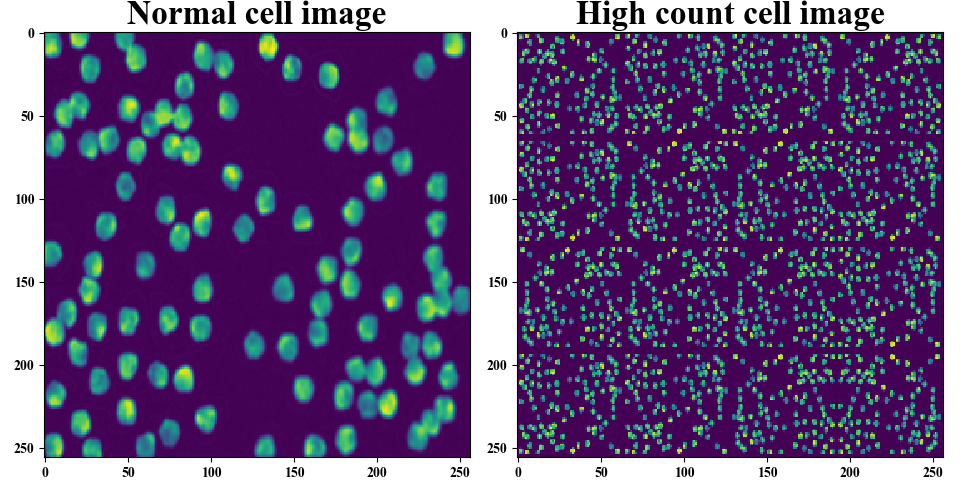
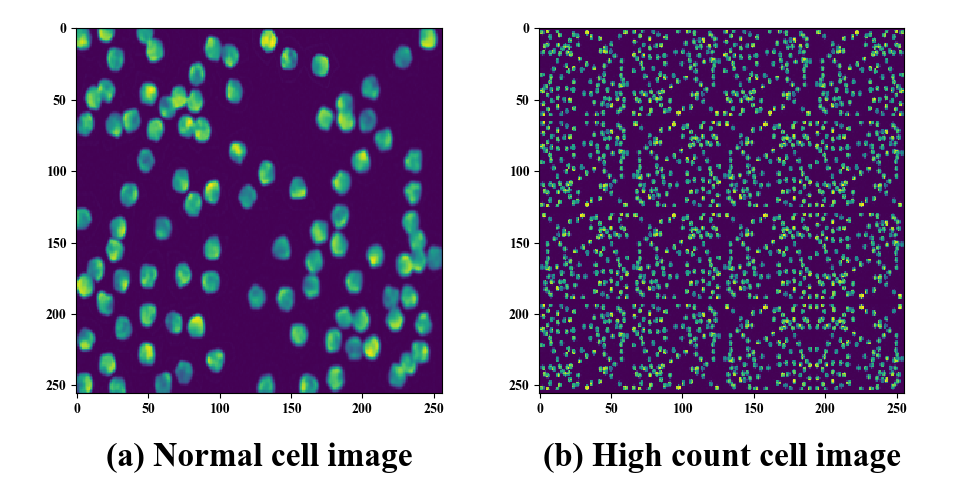
researh paper figs title alteration

diff --git a/research-paper-utils/nalu-comparison-util.py b/research-paper-utils/nalu-comparison-util.py
@@ -34,7 +34,7 @@ Z = tanh(X)*sigmoid(Y)
 ax.set_xlabel('tanh(x)', fontsize=14)
 ax.set_ylabel('sigmoid(y)', fontsize=14)
 ax.set_zlabel('W', fontsize=16)
-ax.set_title('NAC surface plot', fontsize=18)
+ax.set_title('(a) NAC surface plot', fontsize=18, y=-0.04)
 
 # Plot the surface.
 surf = ax.plot_surface(X, Y, Z, cmap=cm.coolwarm,
@@ -46,7 +46,7 @@ ax.zaxis.set_major_locator(LinearLocator(10))
 ax.zaxis.set_major_formatter(FormatStrFormatter('%.02f'))
 
 # Add a color bar which maps values to colors.
-fig.colorbar(surf, shrink=0.5, aspect=5)
+fig.colorbar(surf, shrink=0.4, aspect=6)
 
 
 '''
@@ -79,7 +79,7 @@ Z = ( (g_x(Y)*W_nac) + ((1-g_x(Y))*m_y(Y)) )
 ax.set_xlabel('tanh(x)', fontsize=14)
 ax.set_ylabel('sig-M/G(y), exp(log(|y|+eps))', fontsize=14)
 ax.set_zlabel('Y', fontsize=16)
-ax.set_title('NALU surface plot',  fontsize=18)
+ax.set_title('(b) NALU surface plot',  fontsize=18, y=-0.04)
 
 # Plot the surface.
 surf = ax.plot_surface(X, Y, Z, cmap=cm.coolwarm,
@@ -90,7 +90,7 @@ ax.set_zlim(-1.1, 10.1)
 ax.zaxis.set_major_locator(LinearLocator(10))
 ax.zaxis.set_major_formatter(FormatStrFormatter('%.02f'))
 
-fig.colorbar(surf, shrink=0.5, aspect=5)
+fig.colorbar(surf, shrink=0.4, aspect=6)
 
 # show plot
 plt.show()

diff --git a/research-paper-utils/data-aug-img-util.py b/research-paper-utils/data-aug-img-util.py
@@ -28,15 +28,18 @@ def show_images(images, cols = 1, titles = None):
     
     if titles is None: titles = ['Cell image (%d)' % i for i in range(1,n_images + 1)]
     fig = plt.figure()
-    plt.title('Data augmentation techniques', fontsize=32)
+    plt.title('Data augmentation techniques', fontsize=32, size = -0.05)
+    
     for n, (image, title) in enumerate(zip(images, titles)):
         a = fig.add_subplot(cols, np.ceil(n_images/float(cols)), n + 1)
         if image.ndim == 2:
             plt.gray()
         plt.imshow(image)
-        a.set_title(title, fontsize=22)
+        # a.set_title(title, fontsize=22)
+        a.text(0.5,-0.42, title, size=22, ha="center", transform=a.transAxes)
     fig.set_size_inches(np.array(fig.get_size_inches()) * n_images)
     plt.show()
+    fig.savefig('final_assets/data-aug-image.png')
 
 im_list = ['assets/data-aug-images/a.jpeg',
            'assets/data-aug-images/b.jpeg',
@@ -74,9 +77,3 @@ im_list.append(im_i)
 im_list.append(im_j)
 
 show_images(im_list, 2, None)
-
-
-
-
-
-

diff --git a/research-paper-utils/zoomed-comparison-util.py b/research-paper-utils/zoomed-comparison-util.py
@@ -39,9 +39,15 @@ ax[0][1].imshow(zm_org)
 ax[1][0].imshow(im_ano)
 ax[1][1].imshow(zm_ano)
 
-ax[0][0].set_title('(a) Normal cell image')
-ax[0][1].set_title('(b) Zoomed cell image')
-ax[1][0].set_title('(c) Normal annotated image')
-ax[1][1].set_title('(d) Zoomed annotated image')
-plt.tight_layout(pad=0.2)
+# ax[0][0].set_title('(a) Normal cell image')
+ax[0][0].text(0.5,-0.25, '(a) Normal cell image', size=14, ha="center", transform=ax[0][0].transAxes)
+# ax[0][1].set_title('(b) Zoomed cell image')
+ax[0][1].text(0.5,-0.25, '(b) Zoomed cell image', size=14, ha="center", transform=ax[0][1].transAxes)
+# ax[1][0].set_title('(c) Normal annotated image')
+ax[1][0].text(0.5,-0.25, '(c) Normal annotated image', size=14, ha="center", transform=ax[1][0].transAxes)
+# ax[1][1].set_title('(d) Zoomed annotated image')
+ax[1][1].text(0.5,-0.25, '(d) Zoomed annotated image', size=14, ha="center", transform=ax[1][1].transAxes)
+
+
+plt.tight_layout(pad=1.2)
 plt.savefig('final_assets/cells-fig-compared.png')

diff --git a/research-paper-utils/bbbc005-dataset-util.py b/research-paper-utils/bbbc005-dataset-util.py
@@ -13,11 +13,14 @@ im_cust = scipy.ndimage.imread('assets/16-10001cell.png', True)
 fig = plt.figure(figsize=plt.figaspect(0.5))
 ax = fig.add_subplot(1, 2, 1)
 ax.imshow(im_org)
-ax.set_title('Normal cell image', fontsize=24)
+# ax.set_title('Normal cell image', fontsize=24)
+ax.text(0.5,-0.2, '(a) Normal cell image', size=24, ha="center", transform=ax.transAxes)
+
 
 ax = fig.add_subplot(1, 2, 2)
-ax.set_title('High count cell image', fontsize=24)
+# ax.set_title('High count cell image', fontsize=24)
 ax.imshow(im_cust)
+ax.text(0.5,-0.2, '(b) High count cell image', size=24, ha="center", transform=ax.transAxes)
 
-plt.tight_layout(pad=1.0)
+plt.tight_layout(pad=2.0)
 plt.savefig('final_assets/bbbc005cells-fig-compared.png')
